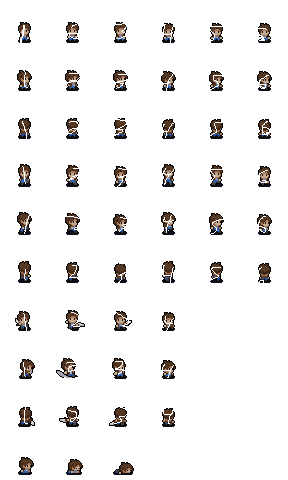
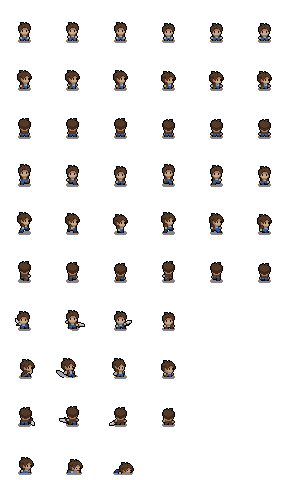
fixed issues with animations

diff --git a/src/client/client.ts b/src/client/client.ts
@@ -66,6 +66,8 @@ const enum DIRECTIONS {
     back = 'back',
 }
 
+type timeouttype = ReturnType<typeof setTimeout>
+
 // frames go from right to left
 const animationData = {
     idle: {
@@ -120,19 +122,20 @@ const animationData = {
     },
     mostRecentDirection: DIRECTIONS.normal,
     // Add more animations here
-    firstFlipID: 0, // default value
 
     currentAnimation: 'idle',
     previousAnimation: '',
     animationElapsedTime: 0,
-    animationDuration: 1000, // In milliseconds
+    animationDuration: 100, // In milliseconds
     animationTimeOffset: 0,
+    x_tiles: 6,
+    y_tiles: 10,
 }
 
-function createTextureAtlasGrid(atlasTexture, tilesHoriz, tilesVert, flipped=false) {
+function createTextureAtlasGrid(atlasTexture, tilesHoriz, tilesVert, flipped = false) {
     const textures: THREE.Texture[] = []
     for (let i = 0; i < tilesVert; i++) {
-        for (let j = tilesHoriz-1; j >= 0; j--) {
+        for (let j = tilesHoriz - 1; j >= 0; j--) {
             const tileTexture = atlasTexture.clone()
             tileTexture.needsUpdate = true
             tileTexture.repeat.set(1 / tilesHoriz, 1 / tilesVert)
@@ -145,18 +148,14 @@ function createTextureAtlasGrid(atlasTexture, tilesHoriz, tilesVert, flipped=fal
 
 function createCharacter(textureAtlas: THREE.Texture, tilesHoriz = 1, tilesVert = 1) {
     const textures = createTextureAtlasGrid(textureAtlas, tilesHoriz, tilesVert).reverse()
-    const flippedatlas = textureAtlas.clone()
-    const flippedTextures = createTextureAtlasGrid(flippedatlas, tilesHoriz, tilesVert, true).reverse()
-    flippedTextures.forEach((texture) => {
-        // Flip the texture horizontally
+
+    textures.forEach((texture) => {
+        // repeat mirror
         texture.wrapS = THREE.RepeatWrapping
-        texture.repeat.x = texture.repeat.x * -1
     })
 
-    const combinedTextures = textures.concat(flippedTextures)
-
     const spriteMaterial = new THREE.SpriteMaterial({
-        map: combinedTextures[0],
+        map: textures[0],
         color: 0xffffff,
     })
     spriteMaterial.side = THREE.DoubleSide
@@ -166,41 +165,66 @@ function createCharacter(textureAtlas: THREE.Texture, tilesHoriz = 1, tilesVert 
     sprite.scale.set(100, 100, 1)
     scene.add(sprite)
 
-    animationData.firstFlipID = Math.floor(combinedTextures.length / 2)
-
-    return { sprite: sprite, textures: combinedTextures }
+    return { sprite: sprite, textures: textures }
 }
 
 function updateAnimation() {
     if (animationData.previousAnimation !== animationData.currentAnimation) {
-        console.log("Reset")
-        animationData.animationTimeOffset = -stats.domElement.ownerDocument.defaultView.performance.now()
+        // console.log('Reset')
+        animationData.animationTimeOffset =
+            -stats.domElement.ownerDocument.defaultView.performance.now()
     }
 
     animationData.previousAnimation = animationData.currentAnimation
     const anim = animationData[animationData.currentAnimation]
     if (!anim) return
 
-    animationData.animationElapsedTime += animationData.animationTimeOffset + stats.domElement.ownerDocument.defaultView.performance.now()
+    animationData.animationElapsedTime +=
+        animationData.animationTimeOffset +
+        stats.domElement.ownerDocument.defaultView.performance.now()
 
     if (animationData.animationElapsedTime >= animationData.animationDuration) {
         // regular adds framesMissing to startFrame but flipped does not
-        const realStartFrame = anim.startFrame + anim.framesMissing
+        const realStartFrame = anim.startFrame
         const realEndFrame = anim.endFrame
 
         const currentFrame =
-            ((realStartFrame + Math.floor(animationData.animationElapsedTime / animationData.animationDuration) - 1) %
-            (realEndFrame - realStartFrame + 1))
+            (realStartFrame +
+                Math.floor(animationData.animationElapsedTime / animationData.animationDuration) -
+                1) %
+            (realEndFrame - realStartFrame + 1)
 
-        // if (currentFrame > realEndFrame) {
-        //     animationData.currentAnimation = 'idle'
-        //     character.attacking = false
-        // }
-        console.log(currentFrame)
-        const frameOffsetForFlip = animationData.firstFlipID
-        const flipOffset = character.flipped ? frameOffsetForFlip : 0
-        character.sprite.material.map =
-            character.textures[flipOffset + realStartFrame + currentFrame]
+        if (
+            currentFrame >= realEndFrame - realStartFrame + 1 - anim.framesMissing
+        ) {
+            character.attacking = false
+            if (animationData.mostRecentDirection === DIRECTIONS.right) {
+                animationData.currentAnimation = 'idleRight'
+            } else if (animationData.mostRecentDirection === DIRECTIONS.back) {
+                animationData.currentAnimation = 'idleBack'
+            } else {
+                animationData.currentAnimation = 'idle'
+            }
+            updateAnimation()
+            return
+        }
+
+        // rotating sprite to face the other direction if flipped
+        if (character.flipped) {
+            character.sprite.material.map = character.textures[realEndFrame - currentFrame]
+            character.sprite.material.map.offset.x =
+                Math.abs(character.sprite.material.map.offset.x) * -1
+            character.sprite.material.map.repeat.x =
+                Math.abs(character.sprite.material.map.repeat.x) * -1
+        } else {
+            character.sprite.material.map = character.textures[realStartFrame + currentFrame]
+            character.sprite.material.map.offset.x = Math.abs(
+                character.sprite.material.map.offset.x
+            )
+            character.sprite.material.map.repeat.x = Math.abs(
+                character.sprite.material.map.repeat.x
+            )
+        }
         character.sprite.material.needsUpdate = true
         animationData.animationElapsedTime = 0
     }
@@ -302,10 +326,7 @@ function updateCharacter() {
             character.attacking = true
             character.velocity.x /= 2
             character.velocity.y /= 2
-            // timeout for the frames of the attack animation
-            setTimeout(() => {
-                character.attacking = false
-            }, (animationData[animationData.currentAnimation].endFrame - animationData[animationData.currentAnimation].startFrame) * animationData.animationDuration)
+
             // attack
             if (animationData.mostRecentDirection === DIRECTIONS.normal) {
                 animationData.currentAnimation = 'attack'
@@ -358,7 +379,7 @@ function updateCharacter() {
 // Background-related logic
 function createBackground() {
     const textureLoader = new THREE.TextureLoader()
-    const backgroundTexture = textureLoader.load('../../static/background.jpg')
+    const backgroundTexture = textureLoader.load('/static/background.jpg')
     const backgroundMaterial = new THREE.SpriteMaterial({ map: backgroundTexture, color: 0xffffff })
 
     const background = new THREE.Sprite(backgroundMaterial)
@@ -368,7 +389,34 @@ function createBackground() {
     scene.add(background)
 }
 
+function removeHelpText() {
+    document.getElementById('help-text').style.display = 'none';
+    window.removeEventListener('keydown', removeHelpText)
+}
+
+function addHelpText() {
+    // help text will disappear after 5 seconds and will also dissapear after pressing any key
+    const helpText = document.createElement('div')
+    helpText.innerHTML = 'Use the arrow keys to move and space to attack'
+    helpText.style.position = 'absolute'
+    helpText.style.top = '10px'
+    helpText.style.left = '10px'
+    helpText.style.color = 'white'
+    helpText.style.fontSize = '20px'
+    helpText.style.fontFamily = 'sans-serif'
+    helpText.style.zIndex = '1'
+    helpText.id = 'help-text'
+    document.body.appendChild(helpText)
+
+    window.addEventListener('keydown', removeHelpText)
+}
+
 window.addEventListener('DOMContentLoaded', () => {
+
+    // add help text
+    addHelpText()
+
+
     // add stats
     document.body.appendChild(stats.dom)
     stats.showPanel(0)
@@ -377,10 +425,14 @@ window.addEventListener('DOMContentLoaded', () => {
 
     const textureLoader = new THREE.TextureLoader()
     const atlasTexture = textureLoader.load(
-        '../../static/character.png',
+        '/static/character.png',
         (texture) => {
             //callback
-            const characterData = createCharacter(atlasTexture, 6, 10) // Assuming a 6x10 grid
+            const characterData = createCharacter(
+                atlasTexture,
+                animationData.x_tiles,
+                animationData.y_tiles
+            ) // Assuming a 6x10 grid
             character.sprite = characterData.sprite
             character.textures = characterData.textures
 
